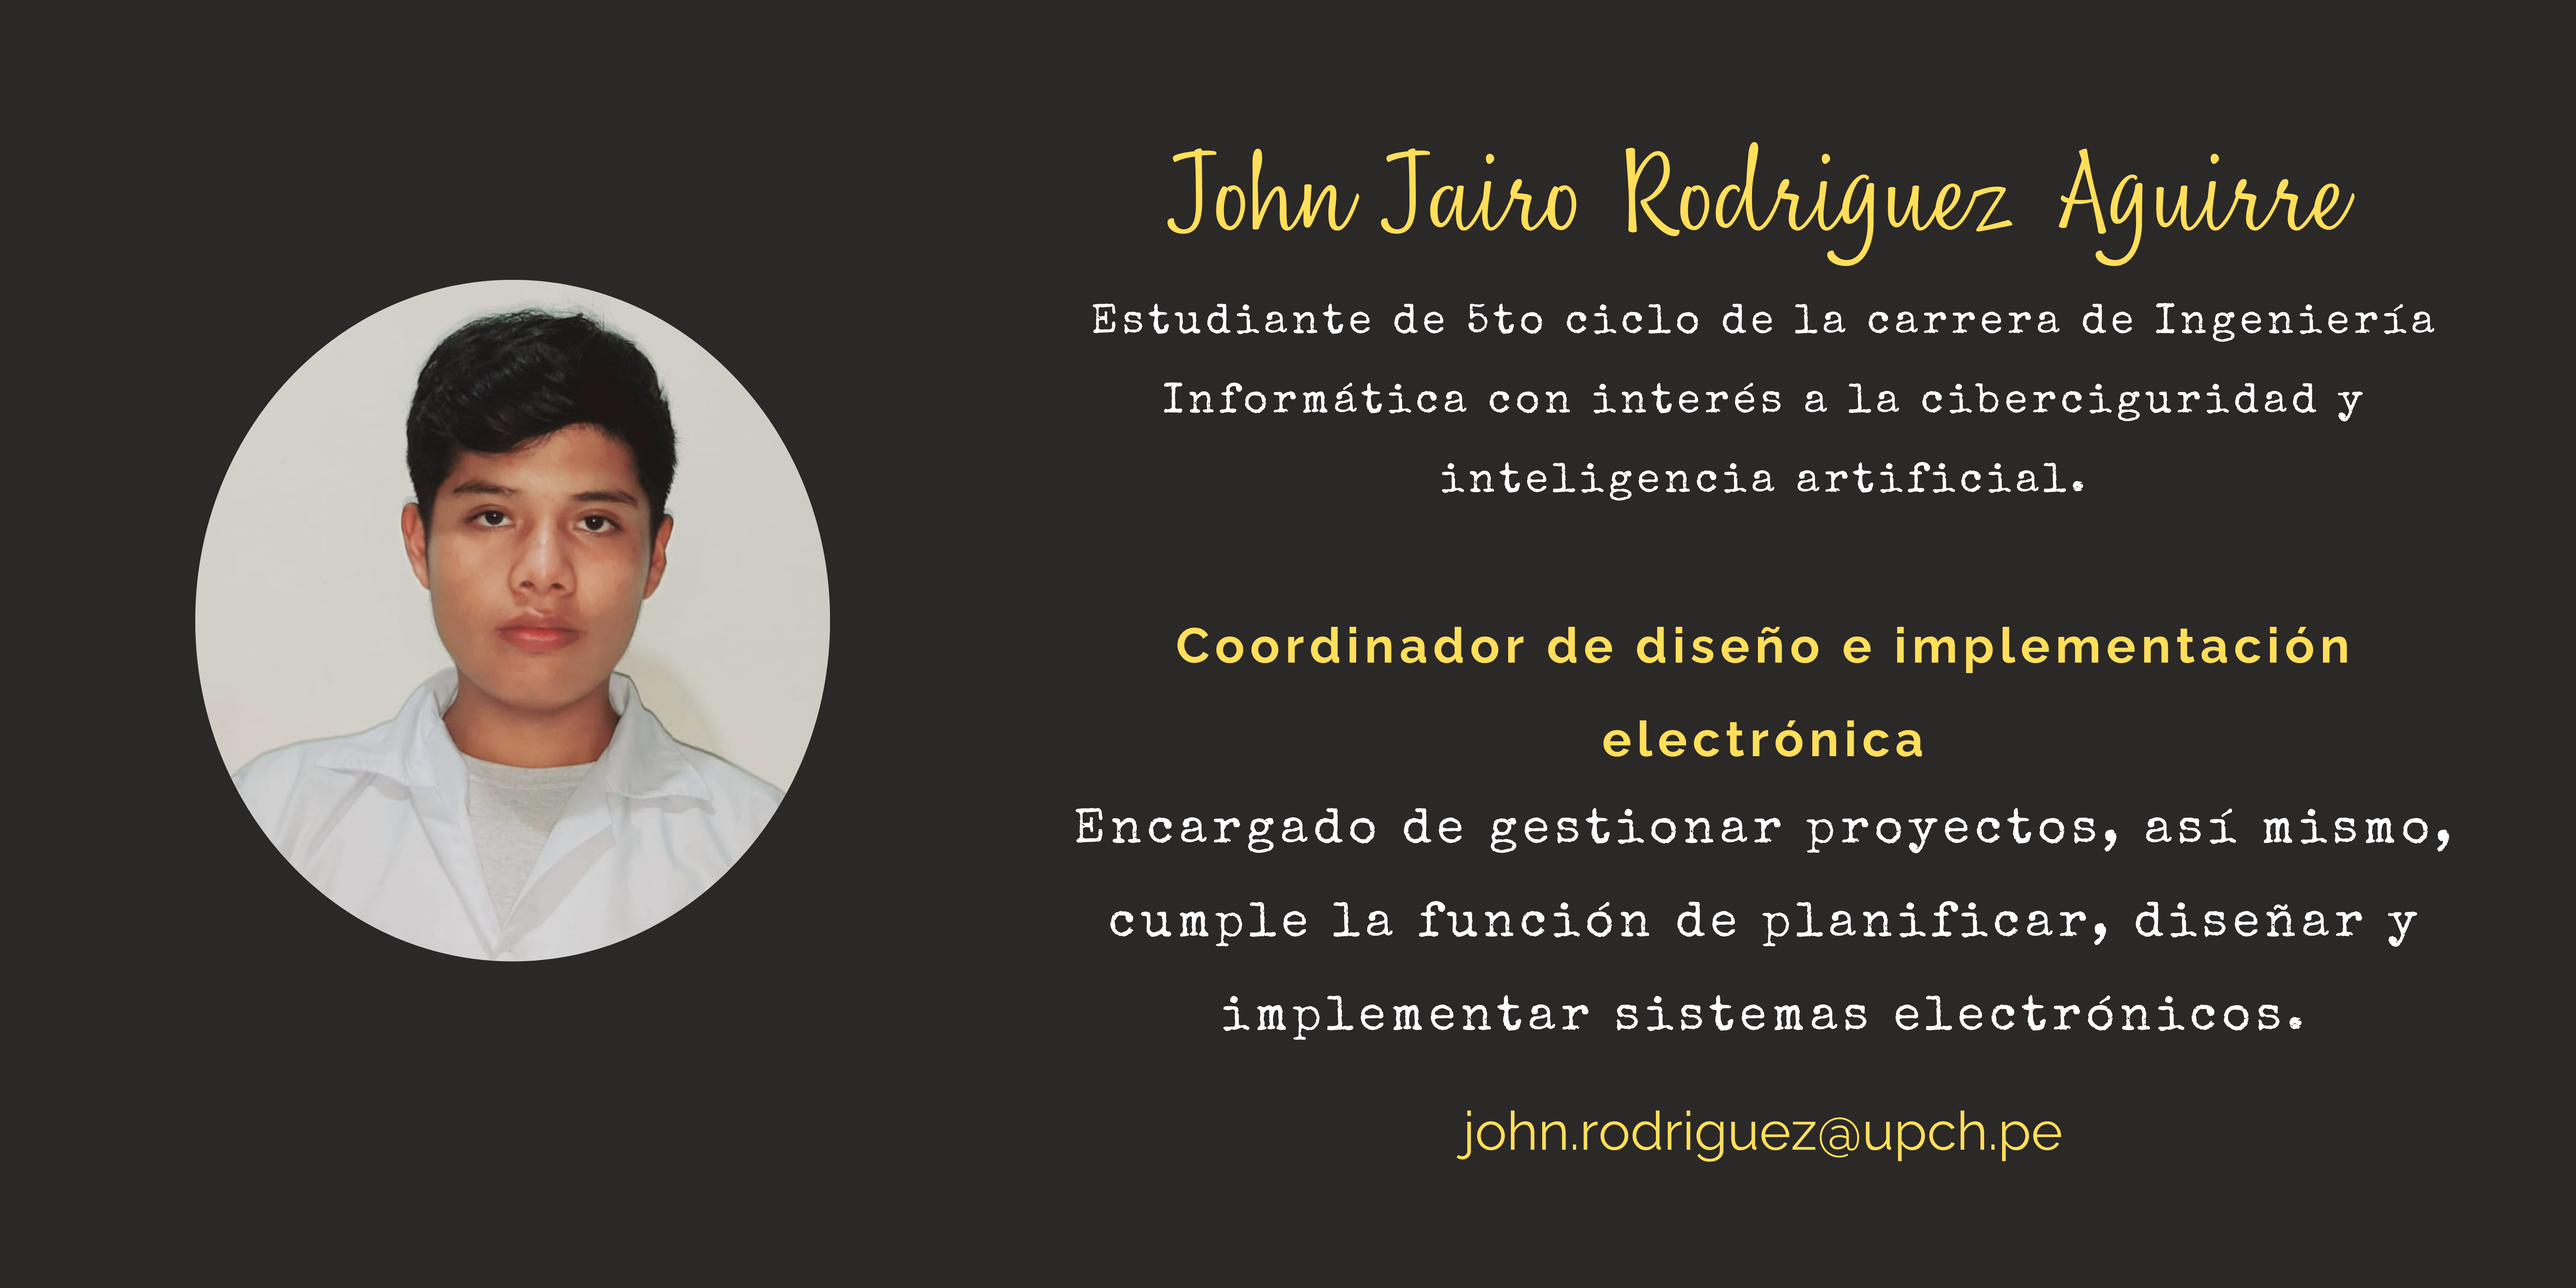
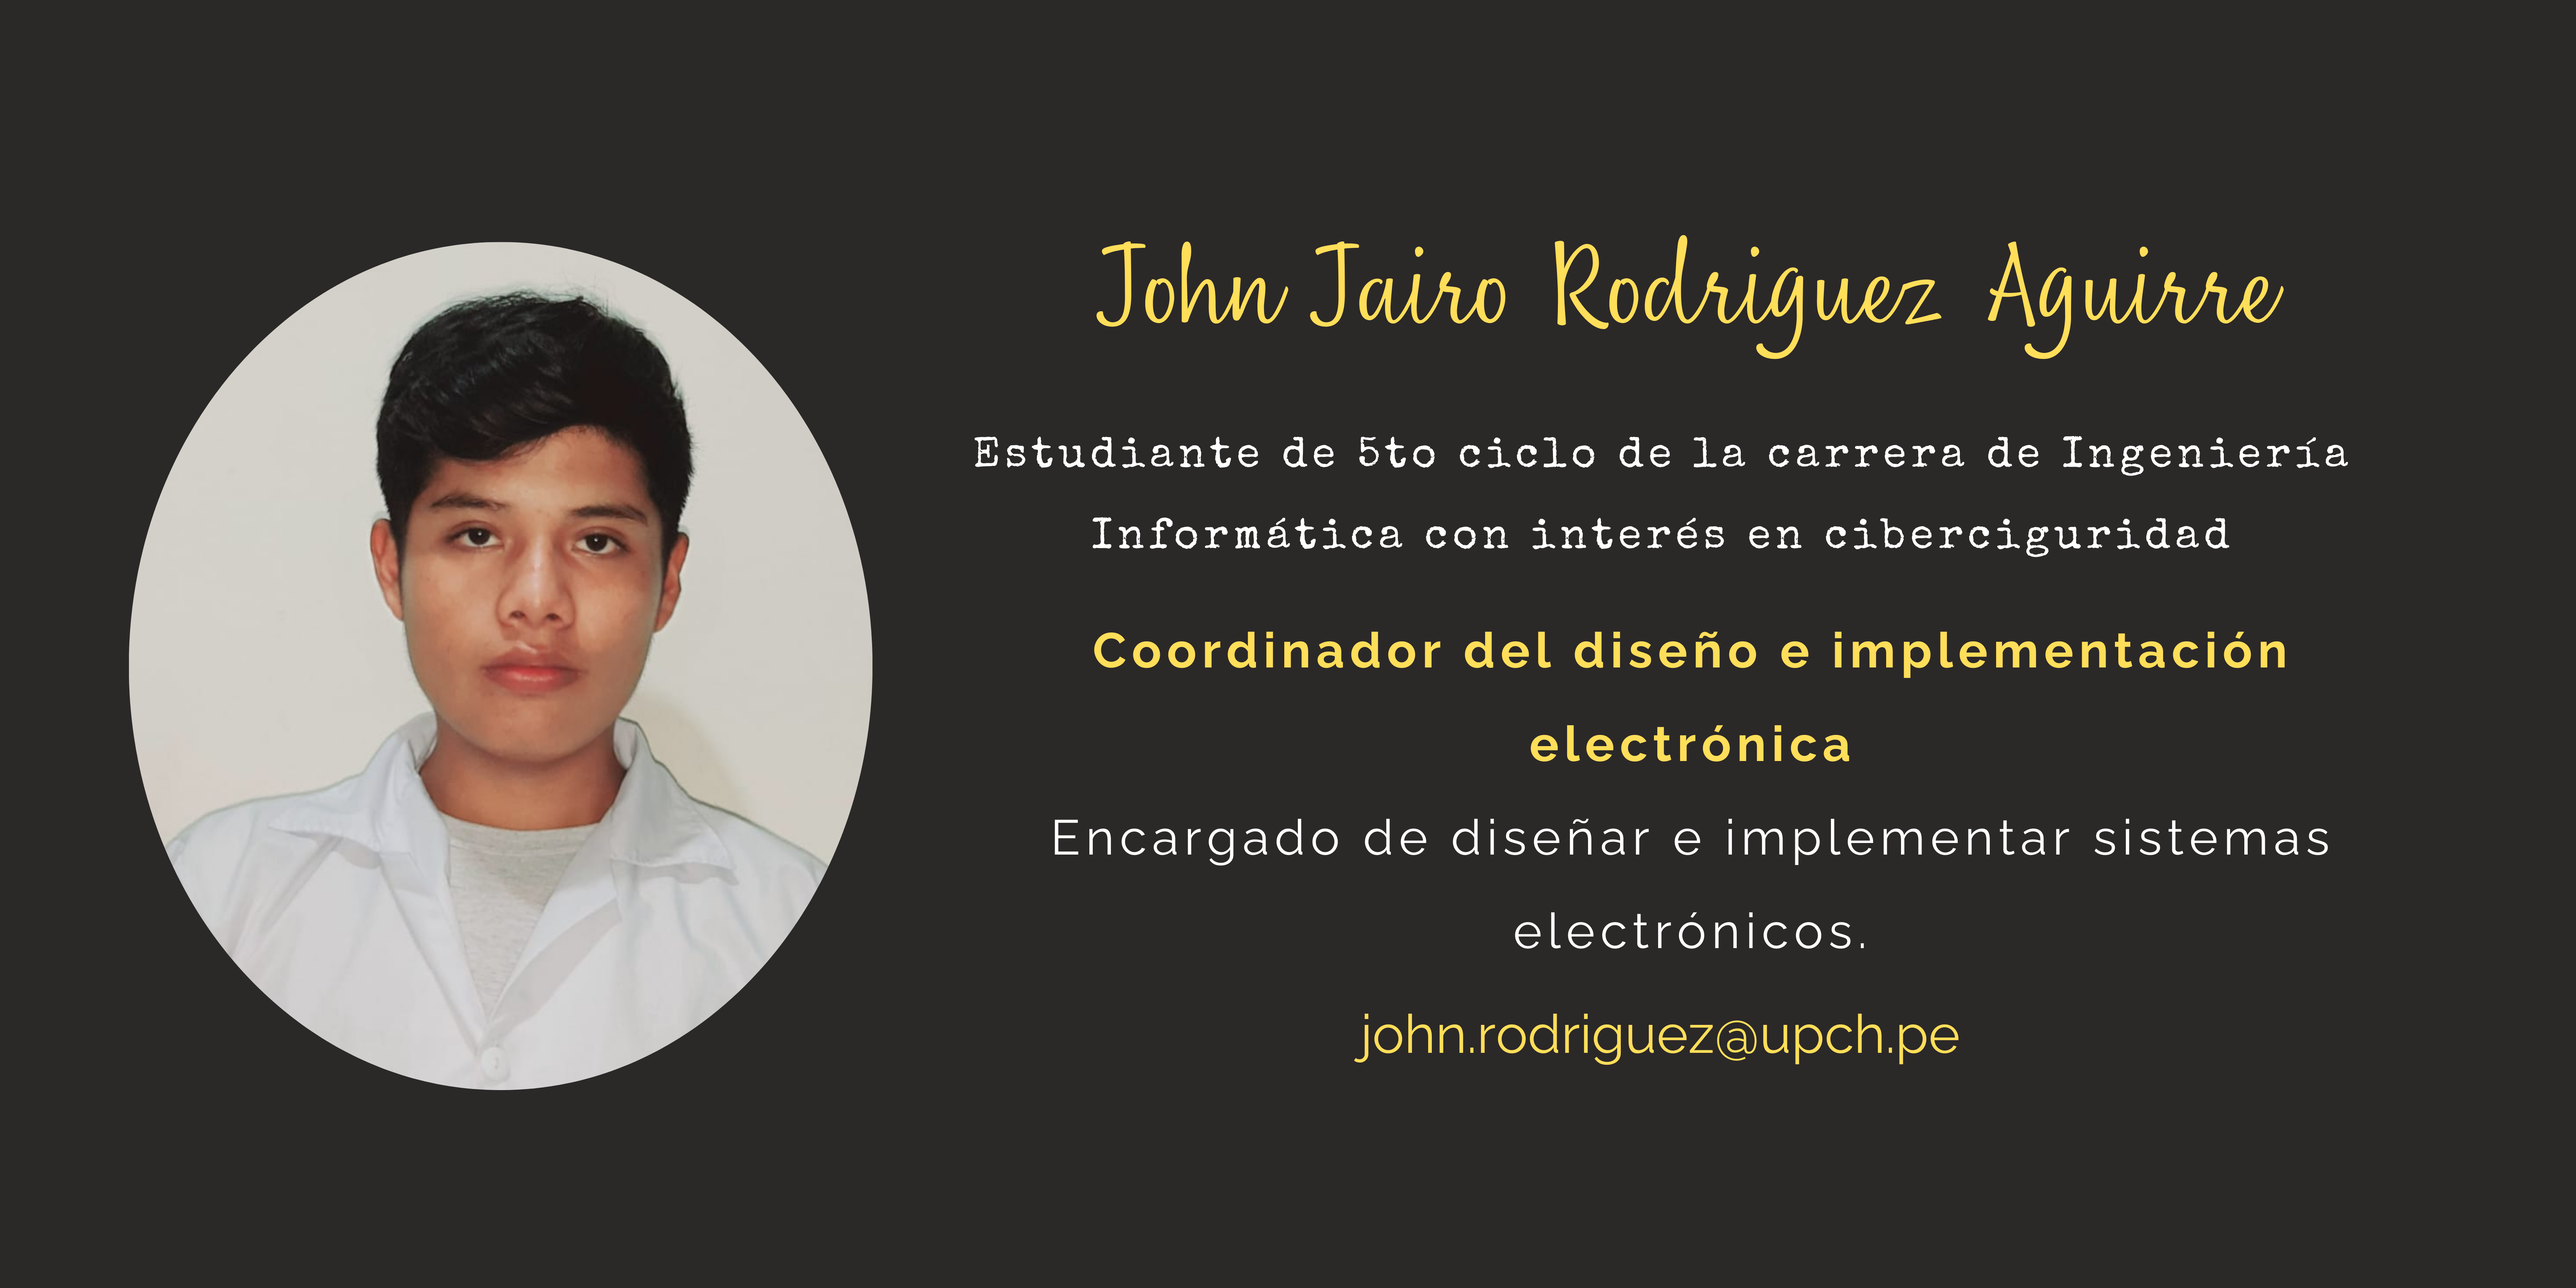
update fotos roles

diff --git a/FdD/Entregables/E01SobreNosotros.md b/FdD/Entregables/E01SobreNosotros.md
@@ -1,11 +1,7 @@
-- Mishell Camila Maravi Melgar
-![](https://github.com/stephany-toribio/Repositorio-BioTech/blob/main/Imagenes/mishell_camila.png)
-  
-- Stephany Marilyn Toribio Alvarado 
-![](https://github.com/stephany-toribio/Repositorio-BioTech/blob/main/Imagenes/stephany_marilyn.png)
+<p align="center"><img src="https://github.com/stephany-toribio/Repositorio-BioTech/blob/main/Imagenes/stephany_marilyn.png" width="1000" style="margin: auto;"></p>
 
-- John Jairo Rodriguez Aguirre
-![](https://github.com/stephany-toribio/Repositorio-BioTech/blob/main/Imagenes/john_jairo.png)
+<p align="center"><img src="https://github.com/stephany-toribio/Repositorio-BioTech/blob/main/Imagenes/mishell_camila.png" width="1000" style="margin: auto;"></p>
 
-- Stefano Jesús Ortega Herencia
-![](https://github.com/stephany-toribio/Repositorio-BioTech/blob/main/Imagenes/stefano_jesus.png)
+<p align="center"><img src="https://github.com/stephany-toribio/Repositorio-BioTech/blob/main/Imagenes/john_jairo.png" width="1000" style="margin: auto;"></p>
+
+<p align="center"><img src="https://github.com/stephany-toribio/Repositorio-BioTech/blob/main/Imagenes/stefano_jesus.png" width="1000" style="margin: auto;"></p>
